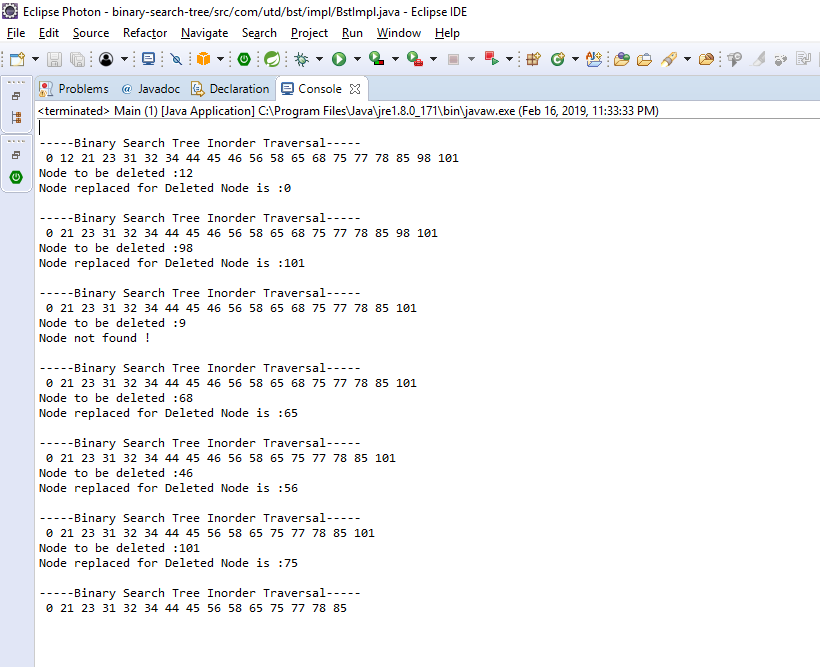
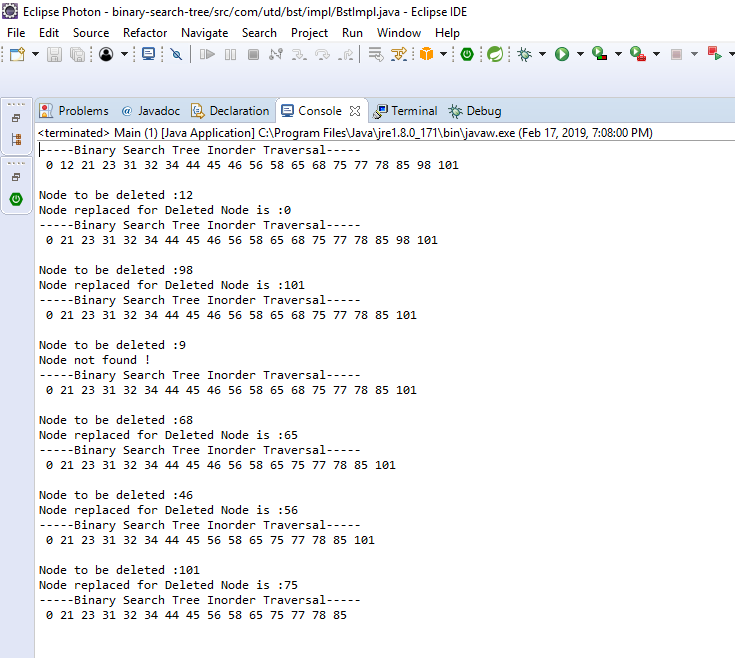
final implementation changes

Changed region(s): [[0.0, 0.0, 1.0, 1.0], [0.5687, 0.3343, 0.5986, 0.3951]]

diff --git a/src/com/utd/bst/impl/BstImpl.java b/src/com/utd/bst/impl/BstImpl.java
@@ -67,7 +67,8 @@ public class BstImpl {
 			//If left child is null
 			else if(deletedNode.left == null) {
 				replacedNode = deletedNode.right;
-				deletedNode.val = replacedNode.val;
+				replaced = replacedNode.val;
+				deletedNode.val = replaced;
 				deletedNode.right = replacedNode.right;
 				deletedNode.left = replacedNode.left;
 			}
@@ -75,7 +76,8 @@ public class BstImpl {
 			//If right child is null
 			else if(deletedNode.right == null) {
 				replacedNode = deletedNode.left;
-				deletedNode.val = replacedNode.val;
+				replaced = replacedNode.val;
+				deletedNode.val = replaced;
 				deletedNode.left = replacedNode.left;
 				deletedNode.right = replacedNode.right;
 			}
@@ -154,13 +156,14 @@ public class BstImpl {
 	}
 	
 	public void traverseBst() {
-		System.out.println("");
+		
 		System.out.println("-----Binary Search Tree Inorder Traversal-----");
 		if(root!=null) {
 			inordertraverseBst(root);
 		}else {
 			System.out.println("Empty Binary Search Tree!");
 		}
+		System.out.println("");
 	}
 	
 	public void inordertraverseBst(Node node) {
